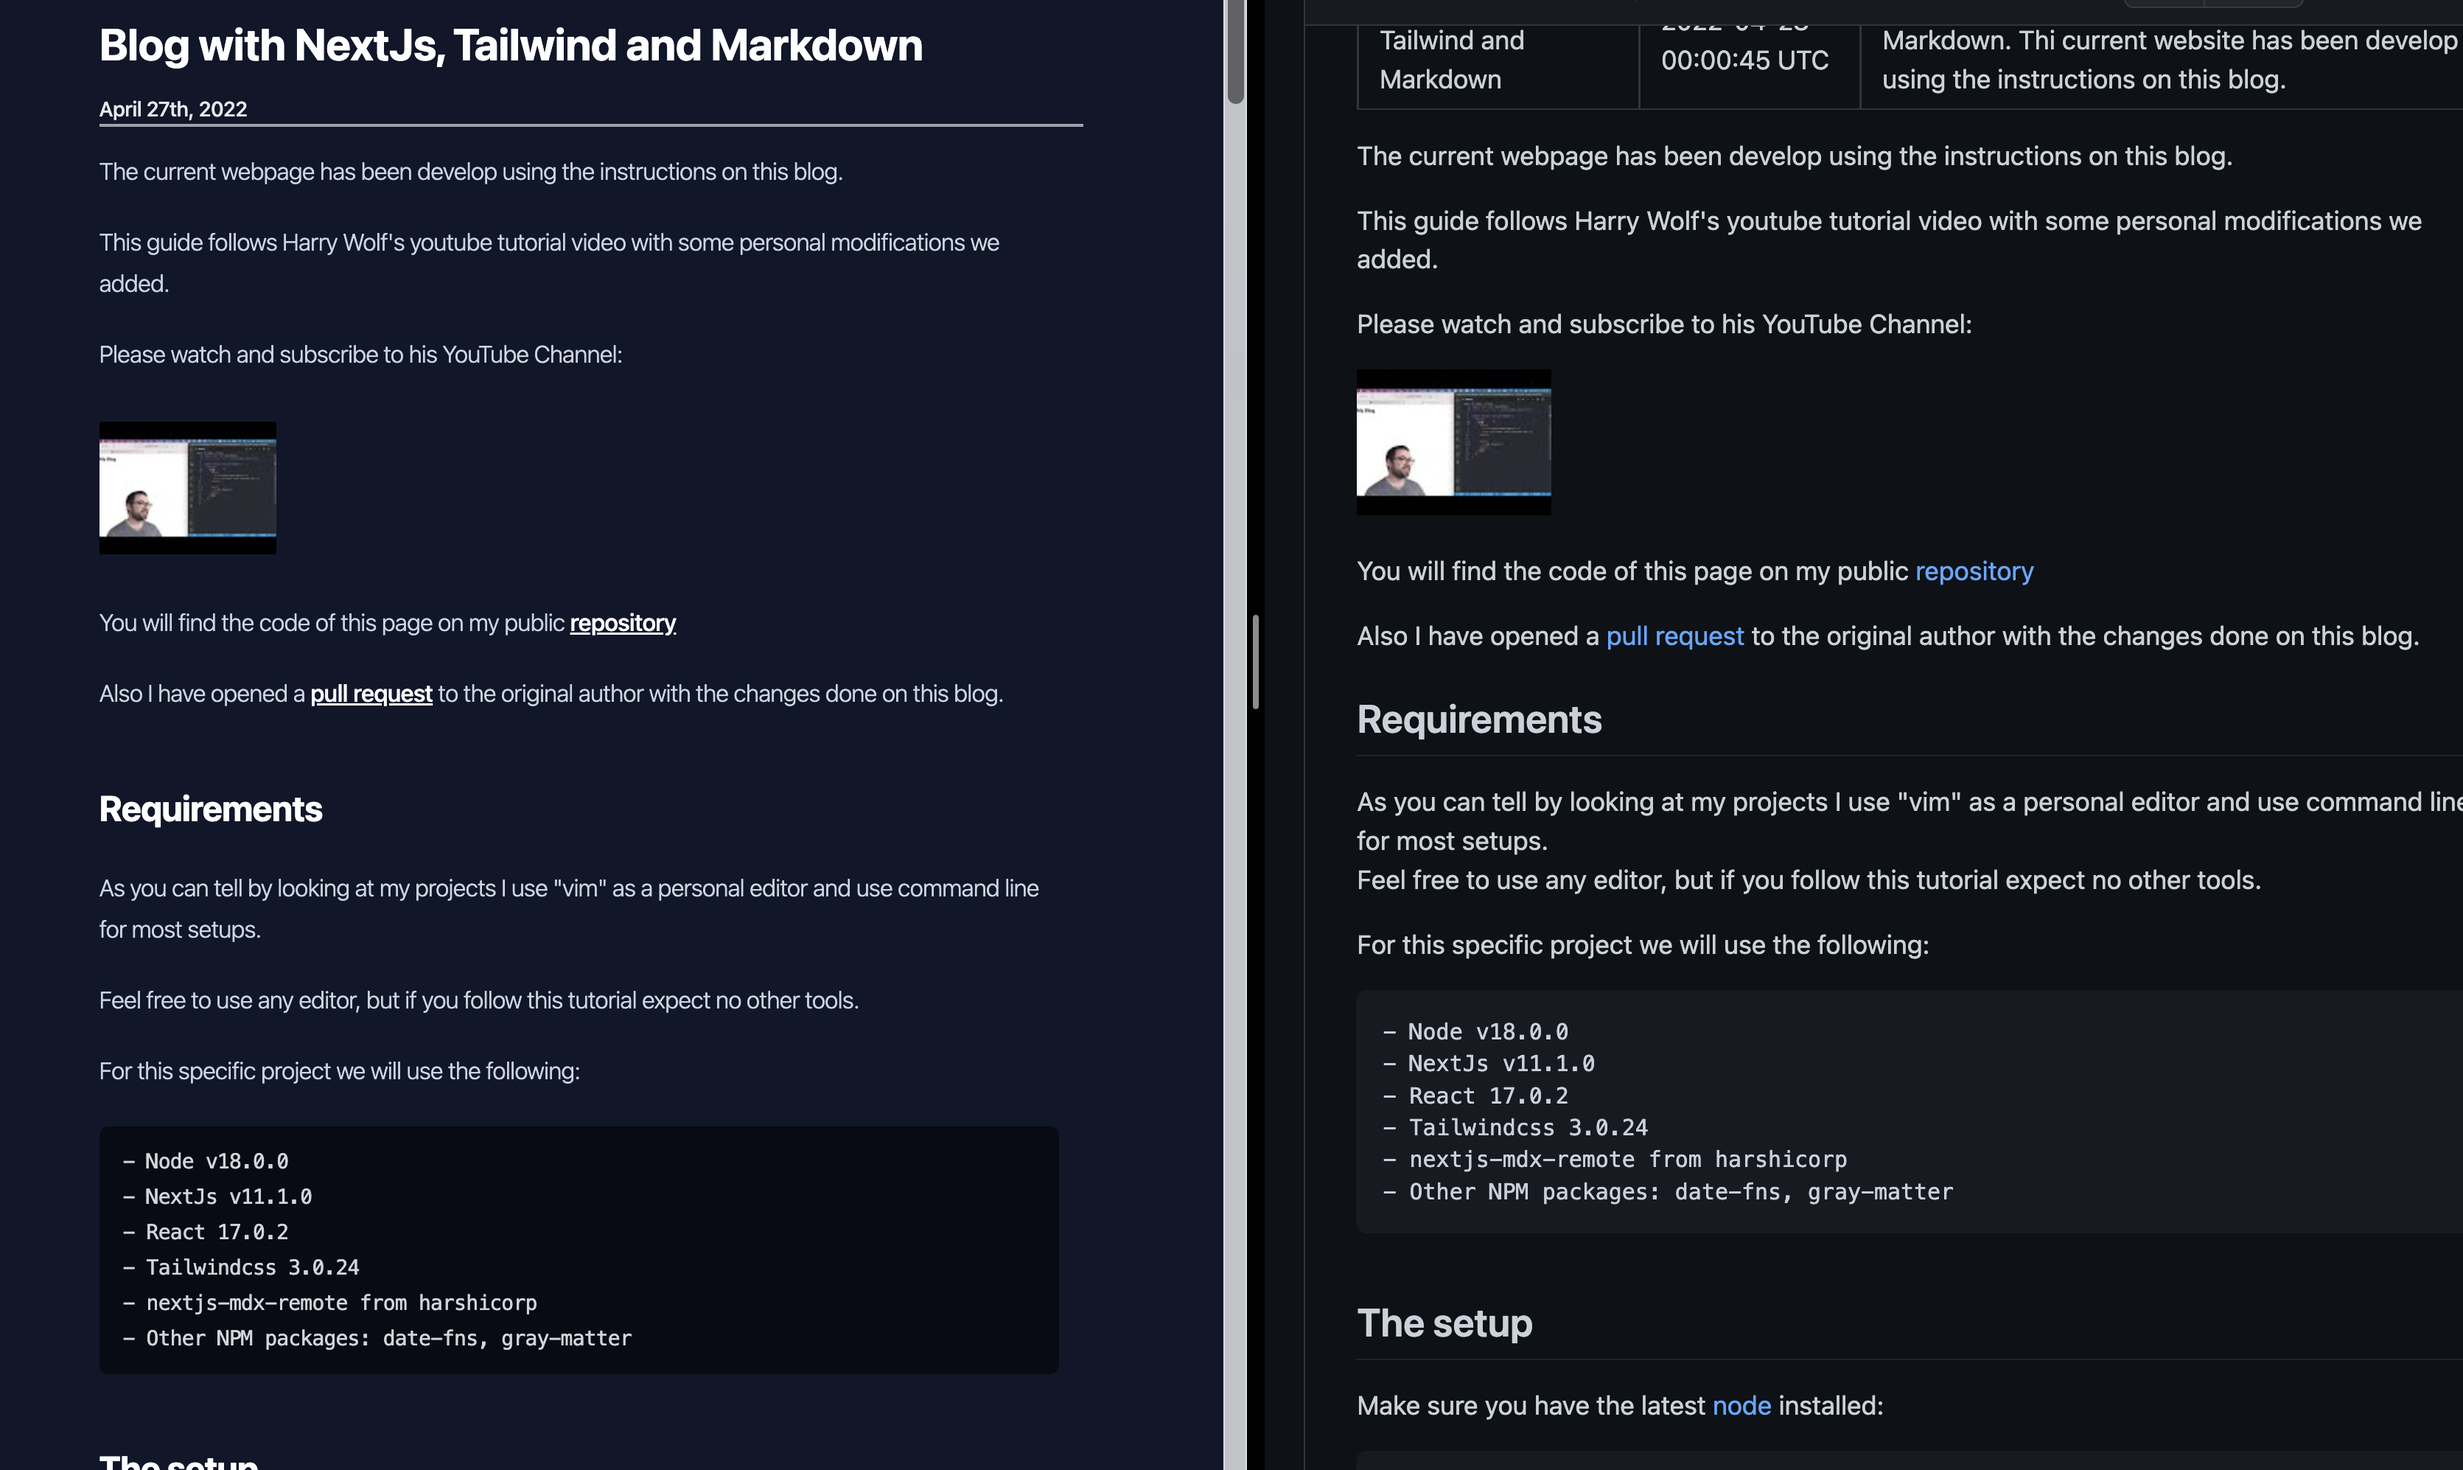
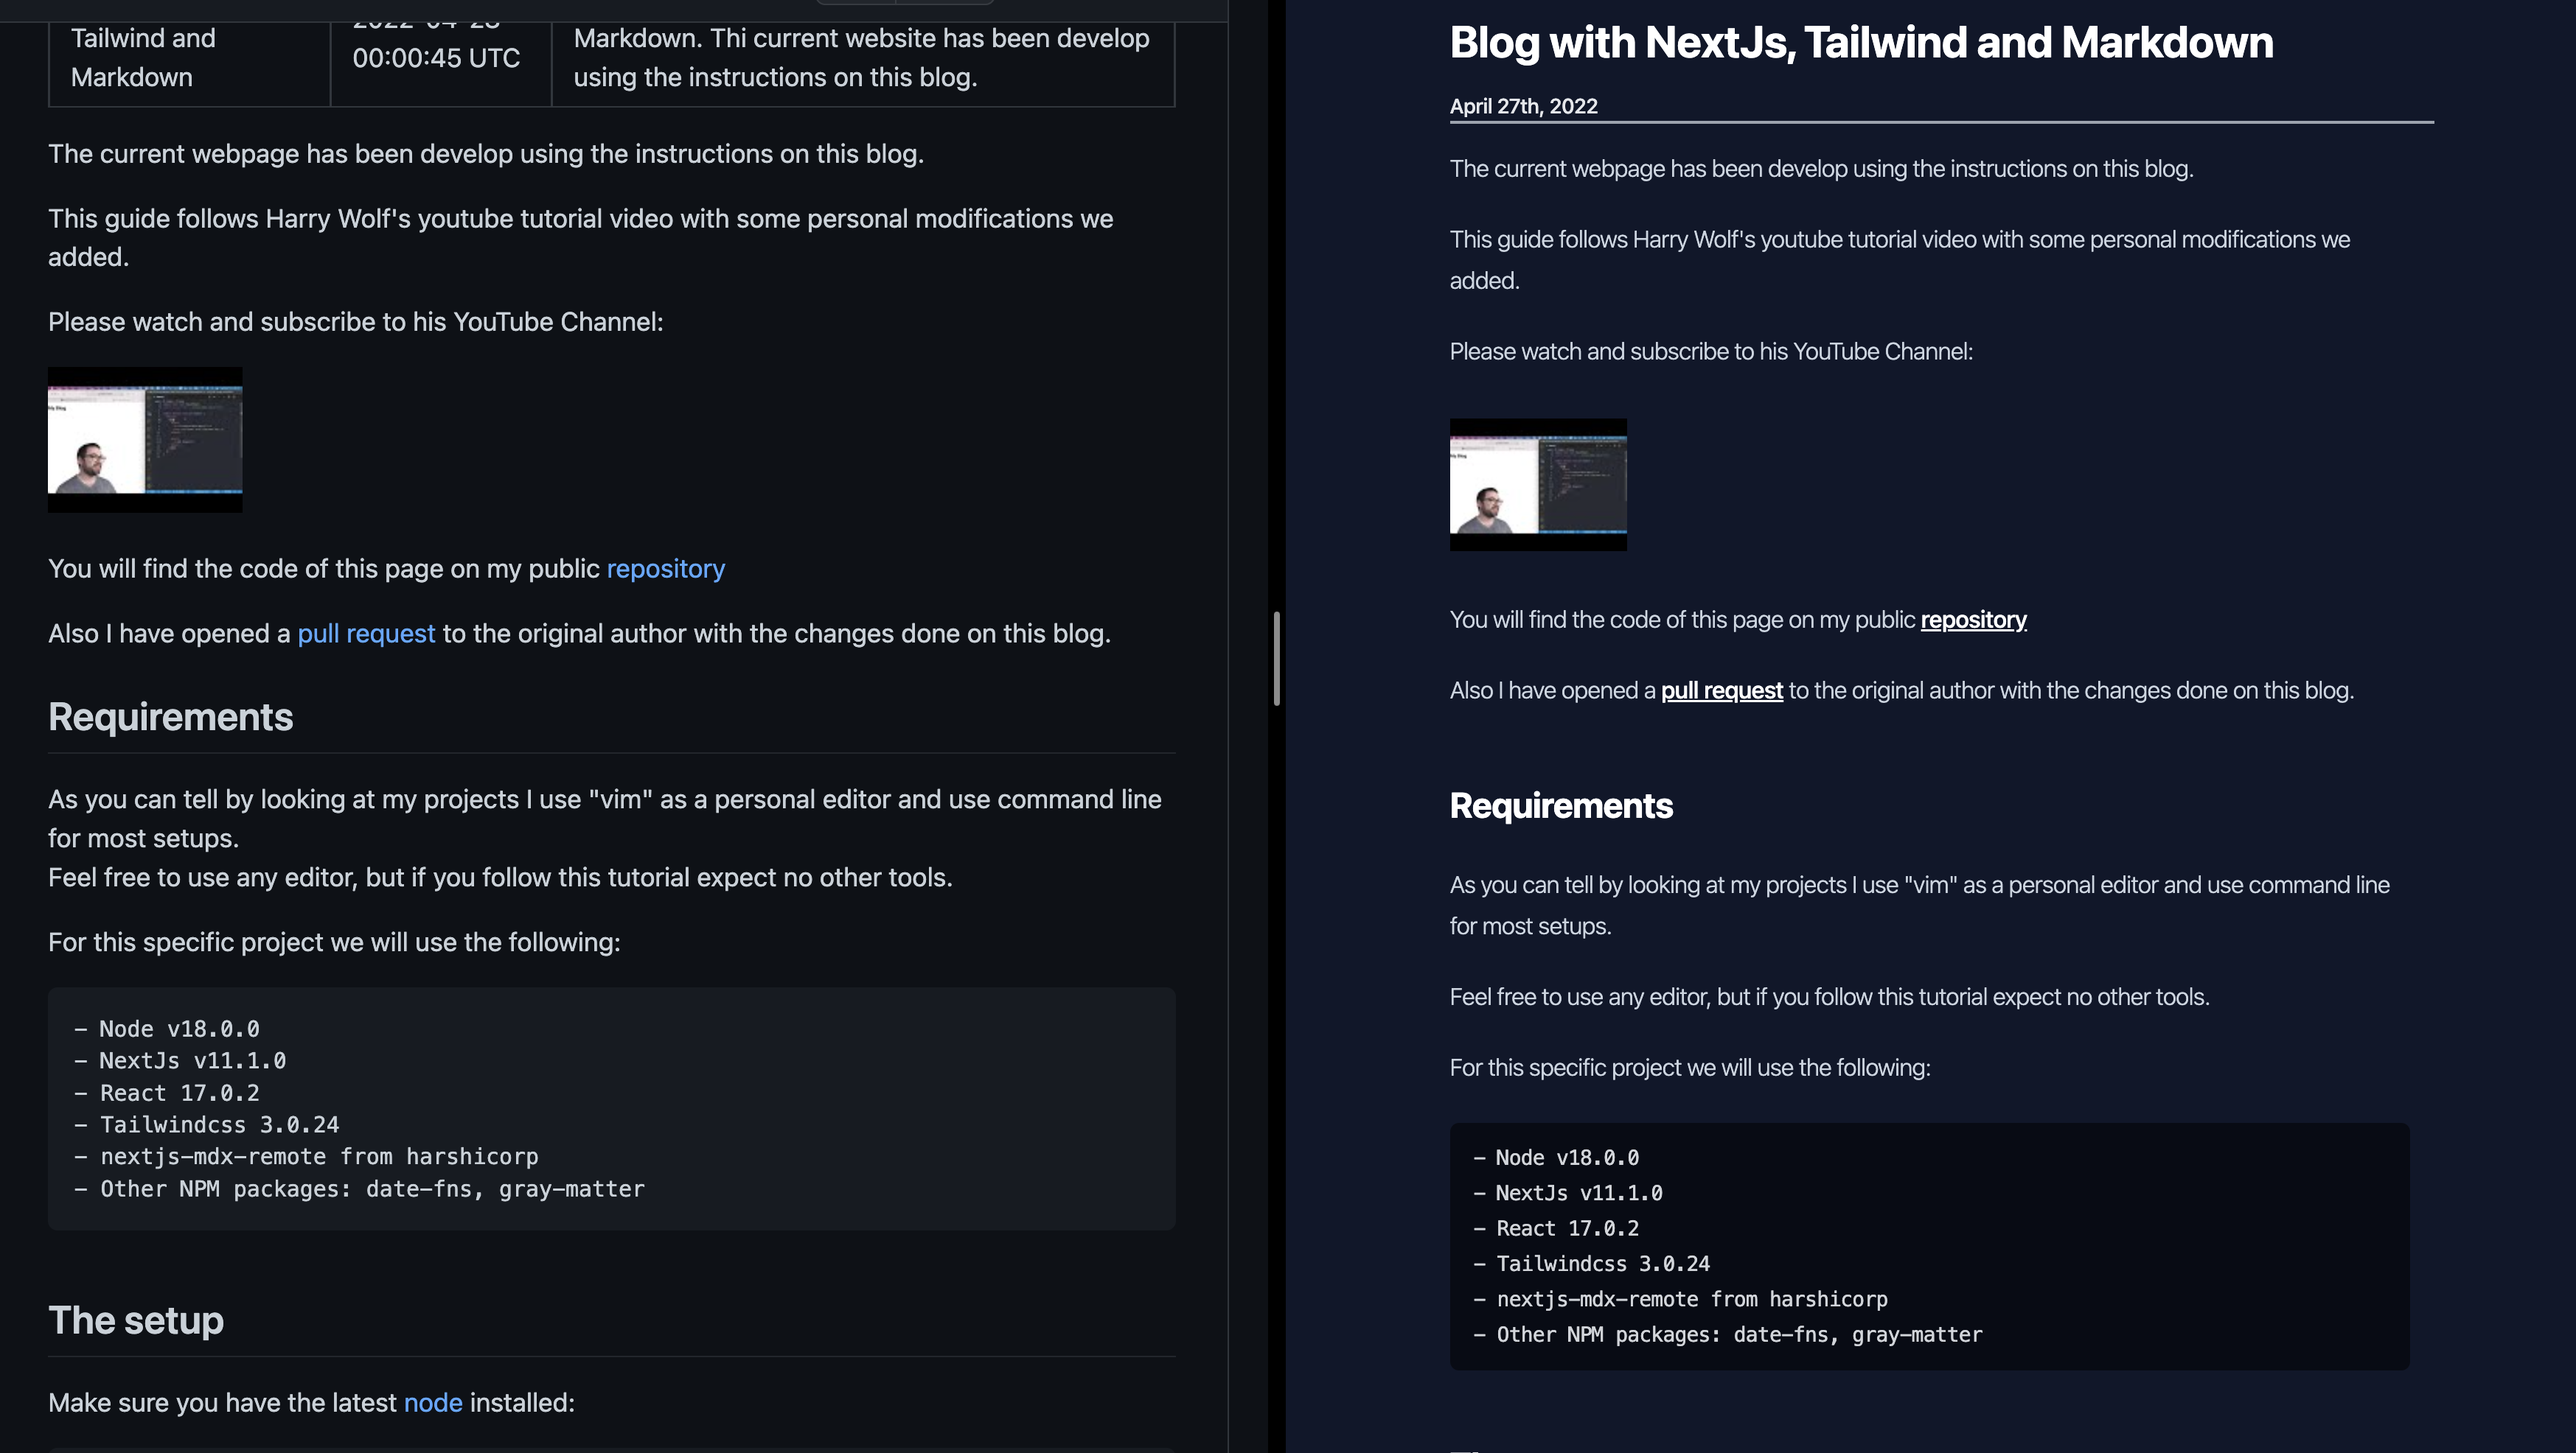
adding more style and end blog content

diff --git a/pages/blog/[slug].js b/pages/blog/[slug].js
@@ -6,62 +6,55 @@ import { MDXRemote } from "next-mdx-remote";
 import { getAllPosts } from "../../lib/data";
 
 export default function BlogPage({ title, date, content }) {
-    return (
-        <div className="max-h-fit">
-            <Head>
-                <title>albac: {title}</title>
-                <meta
-                    name="description"
-                    content="Generated by create next app"
-                />
-                <link rel="icon" href="/favicon.ico" />
-            </Head>
+  return (
+    <div className="max-h-fit">
+      <Head>
+        <title>albac: {title}</title>
+        <meta name="description" content="Generated by create next app" />
+        <link rel="icon" href="/favicon.ico" />
+      </Head>
 
-            <main>
-                <div className="container dark:bg-slate-900">
-                    <div className="border-b-2 border-gray-400 my-4">
-                        <h2 className="dark:text-white text-3xl font-bold">
-                            {title}
-                        </h2>
-                        <div className="text-sm text-gray-600 dark:text-gray-200 mt-4">
-                            {format(parseISO(date), "MMMM do, uuu")}
-                        </div>
-                    </div>
-                    <article className="prose dark:prose-invert text-slate-600 dark:text-slate-300 font-light font-sans">
-                        <MDXRemote {...content} />
-                    </article>
-                </div>
-            </main>
+      <main>
+        <div className="container dark:bg-slate-900">
+          <div className="border-b-2 border-gray-400 my-4">
+            <h2 className="dark:text-white text-3xl font-bold">{title}</h2>
+            <div className="text-sm text-gray-600 dark:text-gray-200 mt-4">
+              {format(parseISO(date), "MMMM do, uuu")}
+            </div>
+          </div>
+          <article className="prose dark:prose-invert prose-img:rounded text-slate-600 dark:text-slate-300 font-light font-sans">
+            <MDXRemote {...content} />
+          </article>
         </div>
-    );
+      </main>
+    </div>
+  );
 }
 
 export async function getStaticProps(context) {
-    // console.log(context);
-    const { params } = context;
-    const allPosts = getAllPosts();
-    const { data, content } = allPosts.find(
-        (item) => item.slug === params.slug
-    );
-    // console.log(data, content);
-    const mdxSource = await serialize(content);
+  // console.log(context);
+  const { params } = context;
+  const allPosts = getAllPosts();
+  const { data, content } = allPosts.find((item) => item.slug === params.slug);
+  // console.log(data, content);
+  const mdxSource = await serialize(content);
 
-    return {
-        props: {
-            ...data,
-            date: data.date.toISOString(),
-            content: mdxSource,
-        },
-    };
+  return {
+    props: {
+      ...data,
+      date: data.date.toISOString(),
+      content: mdxSource,
+    },
+  };
 }
 
 export async function getStaticPaths() {
-    return {
-        paths: getAllPosts().map((post) => ({
-            params: {
-                slug: post.slug,
-            },
-        })),
-        fallback: false,
-    };
+  return {
+    paths: getAllPosts().map((post) => ({
+      params: {
+        slug: post.slug,
+      },
+    })),
+    fallback: false,
+  };
 }

diff --git a/pages/index.js b/pages/index.js
@@ -35,7 +35,7 @@ export async function getStaticProps() {
             posts: allPosts
                 .slice(0)
                 .reverse()
-                .map(({ data, content, slug }) => ({
+                .map(({ data, slug }) => ({
                     ...data,
                     date: data.date.toISOString(),
                     content: data.summary,
